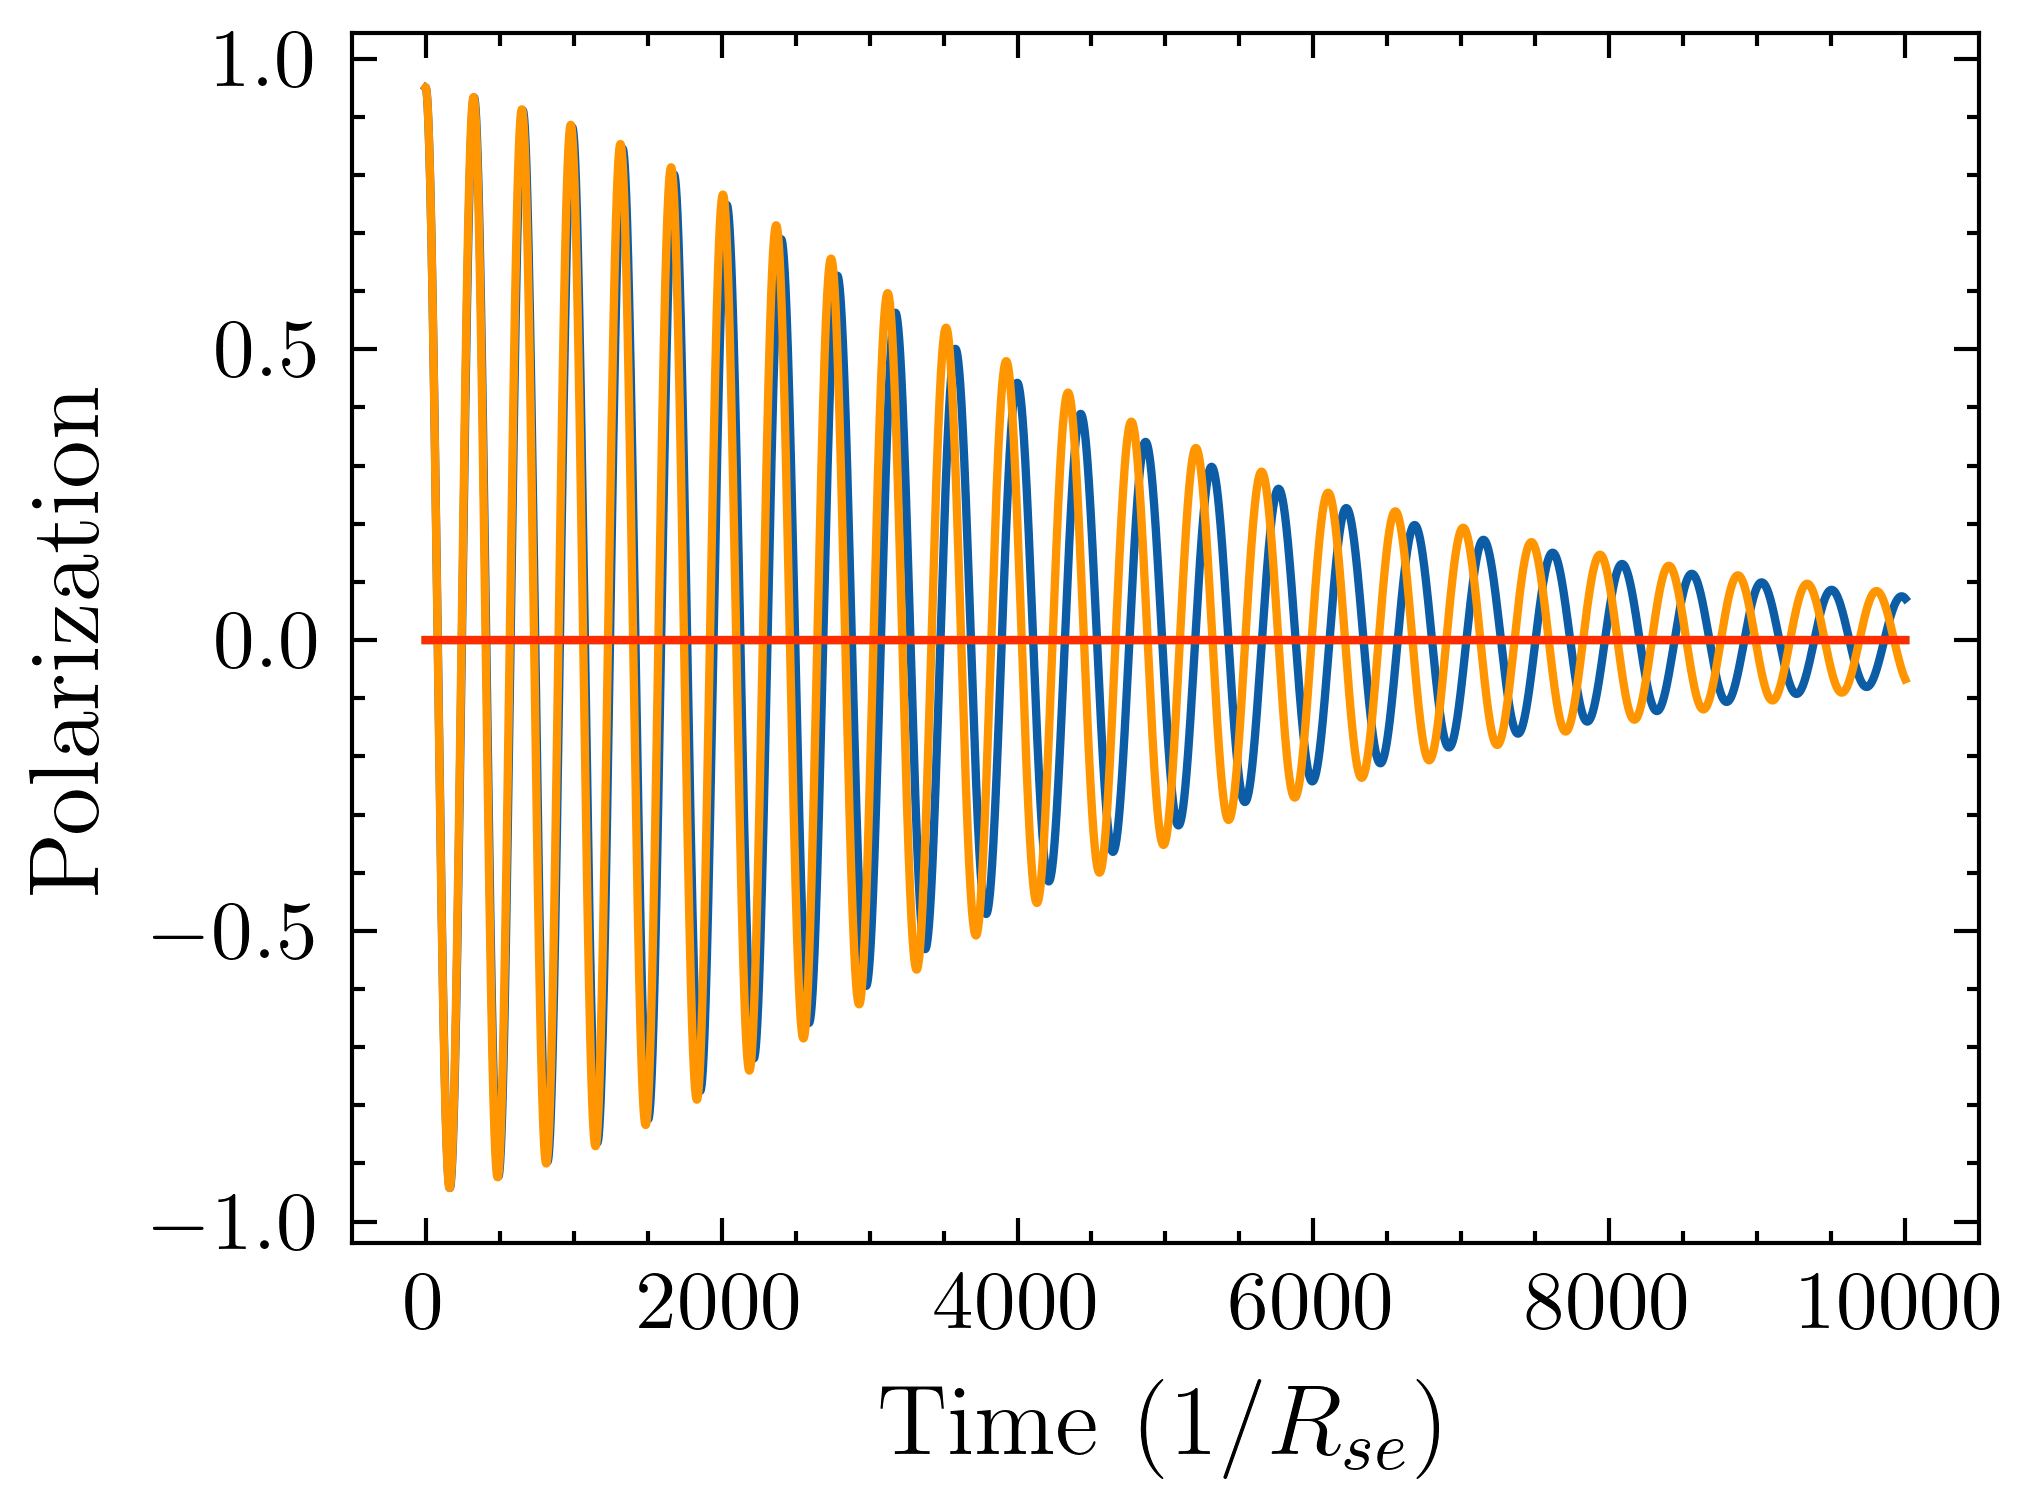
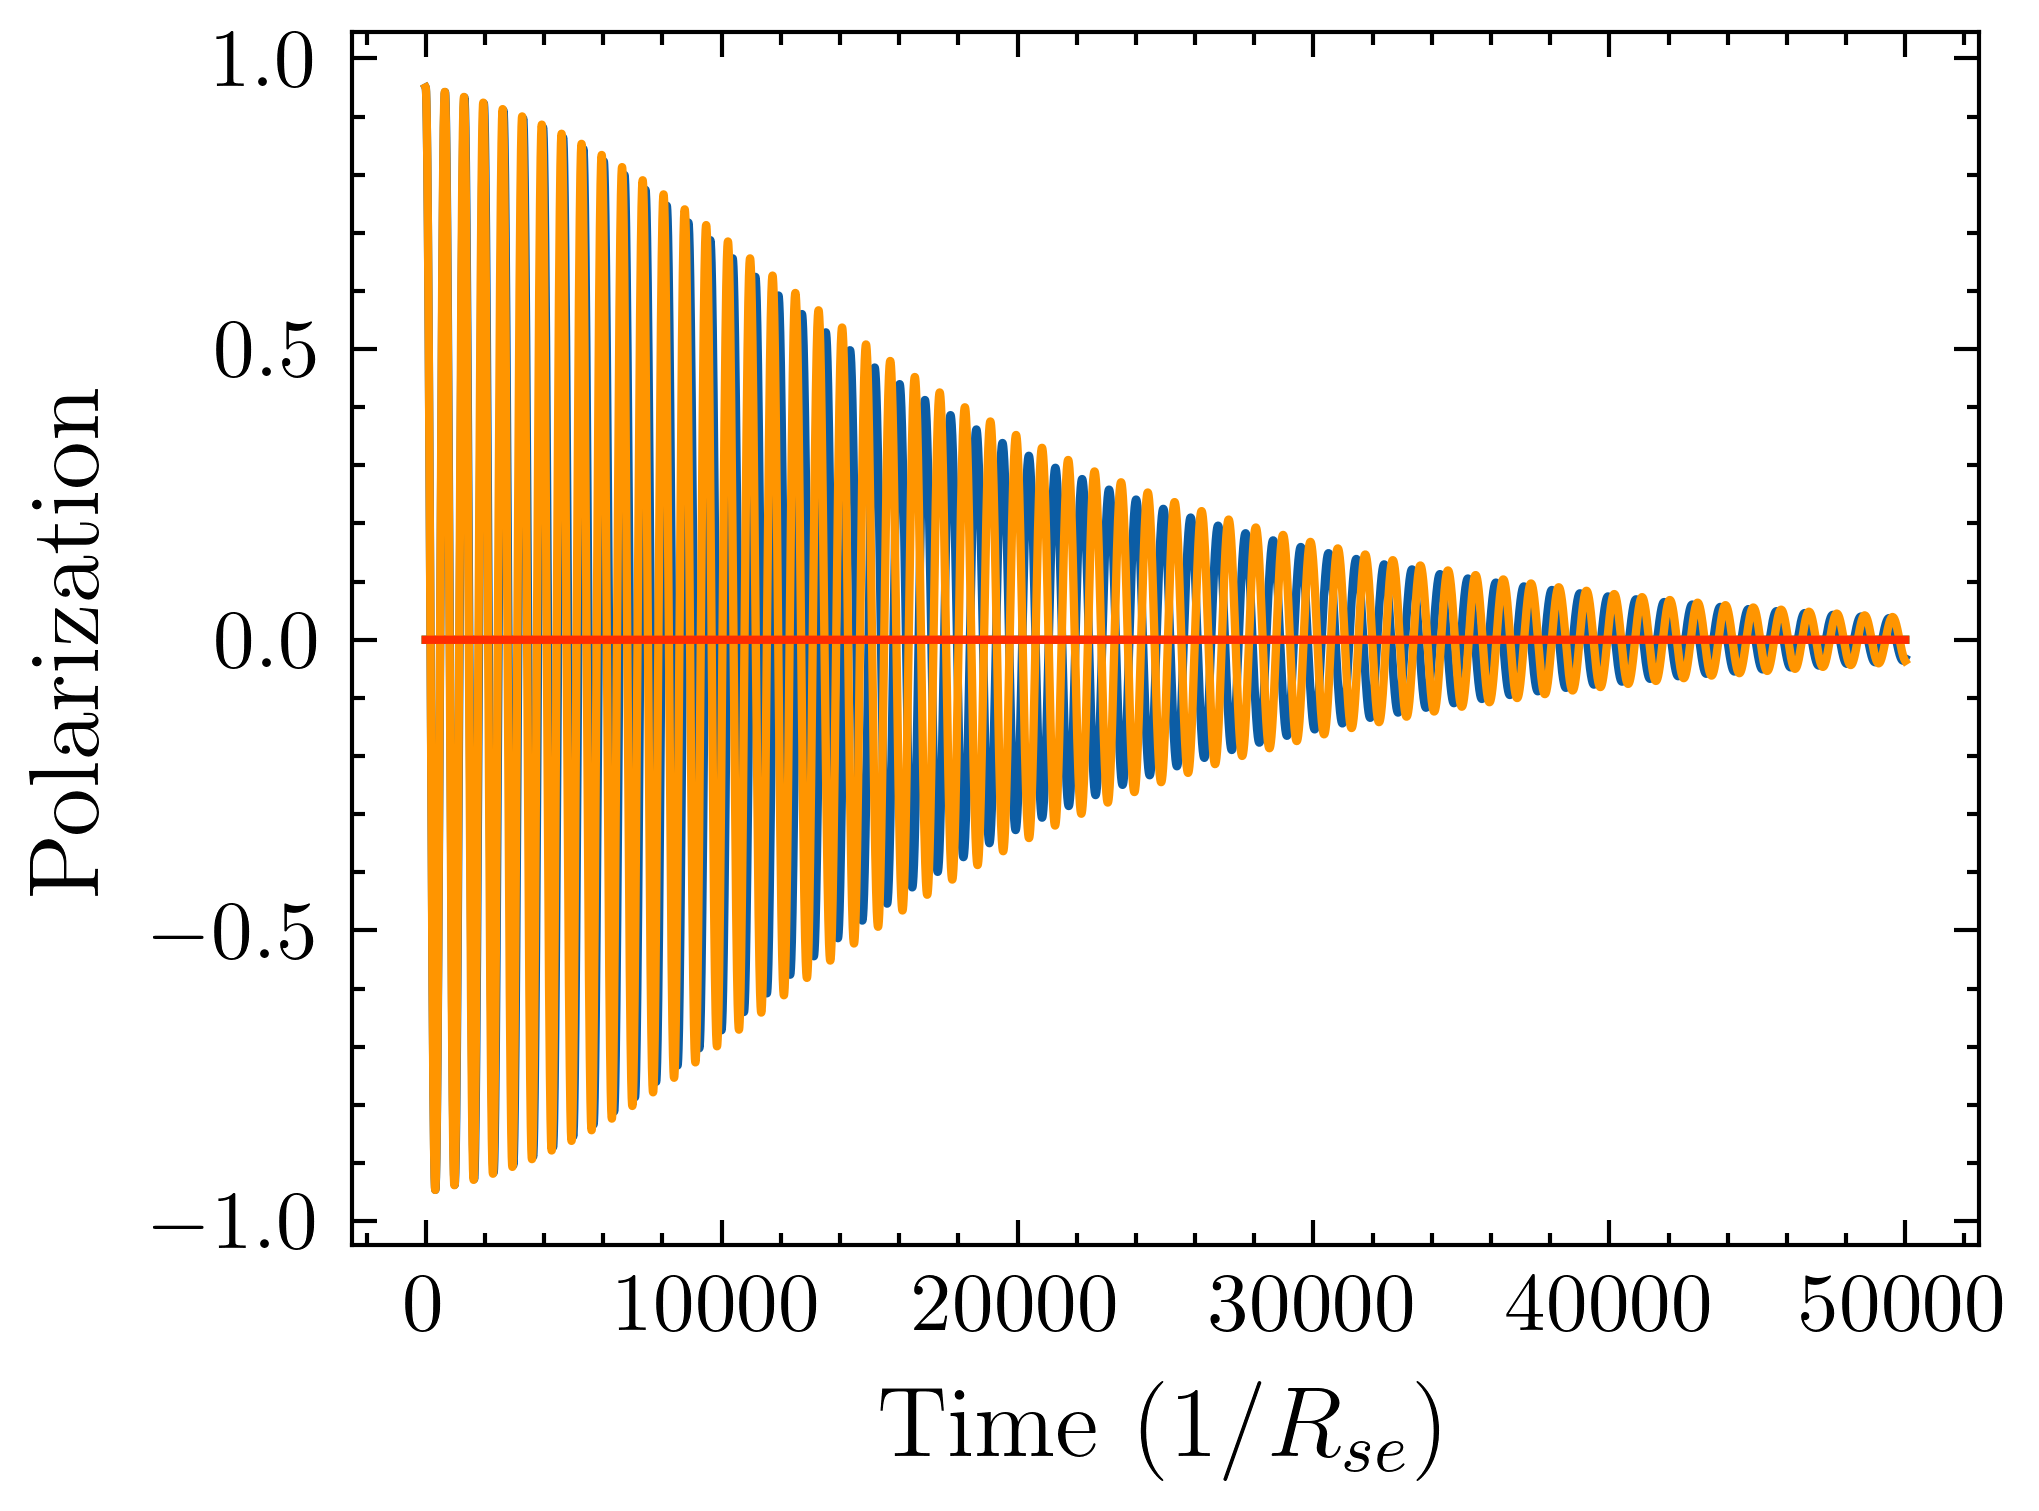
1

diff --git a/test9.py b/test9.py
@@ -1,88 +1,57 @@
-# -*- coding:utf-8 -*-
-"""
-作者：DELL
-日期：2023年12月24日
-"""
-import numpy as np
 import matplotlib.pyplot as plt
 from my_functions.spin_operators_of_2or1_alkali_metal_atoms import spin_operators_of_2or1_alkali_metal_atoms
 from my_functions.alkali_atom_uncoupled_to_coupled import alkali_atom_uncoupled_to_coupled
 from qutip import *
 from sympy.physics.quantum.spin import Rotation
 from sympy import pi
+from my_functions.master_relaxationrate import masterequation
 from scipy.linalg import *
-import scienceplots
-def gammam(P,I, g1, g2,deviation): 
+import numpy as np
+from my_functions.test7_copy import gammam
+bound=1000
+PP,z=gammam(3/2, bound)
+PP,zz=gammam(5/2,bound)
+PP,zzz=gammam(7/2, bound)
 
-    # --------------------------------Properties of the alkali metal atom-----------------------------------#
-    # I = 5 / 2
-    a = round(I + 1 / 2)
-    b = round(I - 1 / 2)
+P=np.arange(0, bound, 1)/1000
 
-    # --------------------------------Generate the angular momentum operators-----------------------------------#
-    U = alkali_atom_uncoupled_to_coupled(round(2 * I))
-    ax, ay, az, bx, by, bz = spin_operators_of_2or1_alkali_metal_atoms(1, I)
-    Sx = np.kron(np.eye(round(2 * I + 1)), np.array(1 / 2 * sigmax()))
-    Sx = U.T.conjugate() @ Sx @ U
-    Sy = np.kron(np.eye(round(2 * I + 1)), np.array(1 / 2 * sigmay()))
-    Sy = U.T.conjugate() @ Sy @ U
-    Sz = np.kron(np.eye(round(2 * I + 1)), np.array(1 / 2 * sigmaz()))
-    Sz = U.T.conjugate() @ Sz @ U
+# xiao's fast relaxation rate 
+h=3/4
+qq0=2*(19)/(3)
+hh=qq0*4*(5/2)*4/(3*36*(qq0-6))
 
-    # --------------------------------Characterize interactions envolved-----------------------------------#
-    Rse = 1
-    Rop = 0
-    Rsd = 0
-    sx=np.sqrt(1)/(2)
-    sz=np.sqrt(1)/(2)
-    # --------------------------------Define the initial state-----------------------------------#
-    theta = 0
-    phi = 0
-    a_theta = spin_Jx(a) * np.sin(theta) * np.cos(phi) + spin_Jy(a) * np.sin(theta) * np.sin(phi) + spin_Jz(a) * np.cos(
-        theta)
-    b_theta = spin_Jx(b) * np.sin(theta) * np.cos(phi) + spin_Jy(b) * np.sin(theta) * np.sin(phi) + spin_Jz(b) * np.cos(
-        theta)
-    qa, va = np.linalg.eig(a_theta)
-    qb, vb = np.linalg.eig(b_theta)
-    v = block_diag(va, vb)
-    q = np.hstack((qa, qb))
-    Rho_ini = np.zeros(2 * (a + b + 1))
+qqq0=2*(11)/(1)
+hhh=qqq0*4*(7/2)*6/(3*64*(qqq0-8))
 
-    # # -----------------spin temperature state-----------------#
+plt.style.use(['science','nature'])
+with plt.style.context(['science','nature']):
+    fig = plt.figure(figsize=(3.2, 4))
+    ax2 = fig.add_subplot(111)
+    p21=ax2.plot(PP, -z)
+    p22=ax2.plot(PP, -zz)
+    p23=ax2.plot(PP, -zzz)
+    ax2.legend(["$ I=3/2$", "$ I=5/2$", "$ I=7/2$"],
+               loc='upper left', prop={'size': 9})
+    ax2.plot([],[])
+    ax2.plot([],[])
+    ax2.plot([],[])
+    ax2.plot([],[])
+    p24=ax2.plot(PP, h*np.ones(bound),linestyle='dotted')
+    p25=ax2.plot(PP, hh*np.ones(bound),linestyle='dotted')
+    p26=ax2.plot(PP, hhh*np.ones(bound),linestyle='dotted')
+    ax2.set_xlim([0,1])
 
+    # plt.ylim([0.65, 1])
+    # plt.ticklabel_format(axis="y", style="sci", scilimits=(0,0))
+    # plt.xlabel('Frequency (Hz)', fontsize=12)
+    # plt.ylabel(' PSD ($N \chi_a^2/$Hz)', fontsize=12)
 
-    # -----------------eigenstates-----------------#
-
-    # Rho_ini = np.outer(np.array([0, 1, 0, 0, 0, 0, 0, 0]), np.array([0, 1, 0, 0, 0, 0, 0, 0]))
-
-    # --------------------------------------Evolution under hyperfine effect, etc.--------------------------------#
-    qq=2*(19+26*P**2+3*P**4)/(3+10*P**2+3*P**4)
-    eta=(qq+6)/(qq-6)
-    dt = 0.001
-    hyperfine = block_diag(np.ones((2 * a + 1, 2 * a + 1)), np.ones((2 * b + 1, 2 * b + 1)))  # 一个原子
-    Fm = np.zeros(10001)
-    Rho_ini = np.zeros(2 * (a + b + 1))
-    beta = np.log((1 + P) / (1 - P))
-    for i in np.arange(0, 2 * (a + b + 1), 1):
-        Rho_ini = Rho_ini + np.exp(beta * q[i]) * v[:, [i]] *v[:, [i]].T.conjugate()
-    Rho_ini = Rho_ini / np.trace(Rho_ini)
-    Rho_ini[[g1,g1]]=Rho_ini[[g1,g1]]-deviation
-    Rho_ini[[g2,g2]]=Rho_ini[[g2,g2]]+deviation
-    Rhot = Rho_ini
-    for n in np.arange(0, 10001, 1):
-        # -----------------Evolution-----------------#
-        x1 = Rhot @ Sx
-        x2 = Rhot @ Sy
-        x3 = Rhot @ Sz
-        AS = 3 / 4 * Rhot - (Sx @ x1 + Sy @ x2 + Sz @ x3)
-        alpha = Rhot - AS
-        mSx = np.trace(x1)
-        mSy = np.trace(x2)
-        mSz = np.trace(x3)
-        mSS = mSx * Sx + mSy * Sy + mSz * Sz
-        Rhot = Rse * (alpha + 4 * alpha @ mSS - Rhot) * dt  + Rhot
-        Rhot = hyperfine * Rhot
-        Fzm =np.sqrt(np.trace((az-eta*bz)@Rhot)**2)
-        Fm[n]=Fzm
-    return Fm
+    ax2.set_xlabel('$P$', fontsize=10)
+    ax2.set_ylabel('$\Gamma_t^- \\approx \Gamma_z^-$ ($R_{\\rm{se}}$) ', fontsize=10)
+    ax2.tick_params(axis='x', labelsize='10' )
+    ax2.tick_params(axis='y', labelsize='10' )
+    # ax2.set_xlim([0,1000])
     
+
+    plt.savefig('Gamma.png', dpi=1000)
+plt.show()

diff --git a/my_functions/test7_copy.py b/my_functions/test7_copy.py
@@ -33,12 +33,13 @@ def gammam(I,bound):
 
     # --------------------------------Characterize interactions envolved-----------------------------------#
     Rse = 1
-    H = ((az+0.5*ax - bz-0.5*bx) ) # 投影定理
+    H = (az - bz) # 投影定理
+    dt = 0.0001
     q, v = np.linalg.eig(H)
     evolving_B = v @ np.diag(np.exp(-1j * q *0.01)) @ np.linalg.inv(v)
     # --------------------------------Define the initial state-----------------------------------#
     theta = np.pi/2
-    phi = np.pi/4
+    phi = 0
     a_theta = spin_Jx(a) * np.sin(theta) * np.cos(phi) + spin_Jy(a) * np.sin(theta) * np.sin(phi) + spin_Jz(a) * np.cos(
         theta)
     b_theta = spin_Jx(b) * np.sin(theta) * np.cos(phi) + spin_Jy(b) * np.sin(theta) * np.sin(phi) + spin_Jz(b) * np.cos(
@@ -56,34 +57,34 @@ def gammam(I,bound):
 
     # --------------------------------------Evolution under hyperfine effect, etc.--------------------------------#
 
-    dt = 0.001
     hyperfine = block_diag(np.ones((2 * a + 1, 2 * a + 1)), np.ones((2 * b + 1, 2 * b + 1)))  # 一个原子
     Fmmt = np.zeros(bound)
-    Fmmz = np.zeros(bound)
+    PP = np.zeros(bound)
 
     for n in np.arange(0,bound, 1):
         # -----------------Evolution-----------------#
         Rho_ini = np.zeros(2 * (a + b + 1))
         P = n/1000
-        if a==2:
-            eta=(5+3*P**2)/(1-P**2)
-        if a==3:
-            qq=2*(19+26*P**2+3*P**4)/(3+10*P**2+3*P**4)
-            eta=(qq+6)/(qq-6)
-        if a==4:
-            qq=2*(11+35*P**2+17*P**4+P**6)/(1+7*P**2+7*P**4+P**6)
-            eta=(qq+8)/(qq-8)
         beta = np.log((1 + P) / (1 - P))
         for i in np.arange(0, 2 * (a + b + 1), 1):
             Rho_ini = Rho_ini + np.exp(beta * q[i]) * v[:, [i]] @ v[:, [i]].T.conjugate()
         Rho_ini = Rho_ini / np.trace(Rho_ini)
         Rho_ini = evolving_B @Rho_ini @ evolving_B.T.conjugate()  # Zeeman effect
         Rhot = Rho_ini
+        P_ini=np.sqrt(np.trace(Rhot@Sx)**2+np.trace(Rhot@Sy)**2)*2
+        PP[n]=P_ini
+        if a==2:
+            eta=(5+3*P_ini**2)/(1-P_ini**2)
+        if a==3:
+            qq=2*(19+26*P_ini**2+3*P_ini**4)/(3+10*P_ini**2+3*P_ini**4)
+            eta=(qq+6)/(qq-6)
+        if a==4:
+            qq=2*(11+35*P_ini**2+17*P_ini**4+P_ini**6)/(1+7*P_ini**2+7*P_ini**4+P_ini**6)
+            eta=(qq+8)/(qq-8)
         Fxm0 = np.trace((ax-eta*bx)@Rhot)
         Fym0 = np.trace((ay-eta*by)@Rhot)
         Fm0=np.sqrt(Fxm0**2+Fym0**2)
-        Fmz0=np.sqrt(np.trace((az-eta*bz)@Rhot)**2)
-        for k in np.arange(0,1,1):
+        for k in np.arange(0,2,1):
             Rhot = hyperfine * Rhot
             x1 = Rhot @ Sx
             x2 = Rhot @ Sy
@@ -95,14 +96,12 @@ def gammam(I,bound):
             mSz = np.trace(x3)
             mSS = mSx * Sx + mSy * Sy + mSz * Sz
             Rhot = Rse * (alpha + 4 * alpha @ mSS - Rhot) * dt  + Rhot
-  
         Fxm = np.trace((ax-eta*bx)@Rhot)
         Fym = np.trace((ay-eta*by)@Rhot)
         Fm=np.sqrt(Fxm**2+Fym**2)
-        Fmz=np.sqrt(np.trace((az-eta*bz)@Rhot)**2)
+        
 
-        Fmmt[n]=(Fm-Fm0)/(1*dt)/Fm0
-        Fmmz[n]=(Fmz-Fmz0)/(1*dt)/Fmz0
+        Fmmt[n]=(Fm-Fm0)/(2*dt)/Fm0
 
-    return Fmmt, Fmmz
+    return PP,Fmmt
     

diff --git a/Master_equation.py b/Master_equation.py
@@ -30,7 +30,7 @@ Sz = U.T.conjugate() @ Sz @ U
 
 # --------------------------------Characterize interactions envolved-----------------------------------#
 Rse = 1
-omega_0 = 0.02
+omega_0 = 0.01
 Rop = 0.
 Rsd = 0.
 sx=np.sqrt(1)/(2)
@@ -62,7 +62,7 @@ Rho_ini = Rho_ini / np.trace(Rho_ini)
 # --------------------------------------Evolution under hyperfine effect, etc.--------------------------------#
 Rhot = Rho_ini
 dt = 0.01
-T = 10000
+T = 50000
 t = np.arange(0, T, dt)
 hyperfine = block_diag(np.ones((2 * a + 1, 2 * a + 1)), np.ones((2 * b + 1, 2 * b + 1)))  # 一个原子
 MSx = np.zeros(round(T / dt))
@@ -115,11 +115,11 @@ for n in np.arange(0, round(T / dt), 1):
     Qnm = 2 * (3 + P ** 4) / ((1 + P ** 2) ** 2)
     Gamma = (4 * (-4 + qnm) * (4 + qnm) * omega_0 ** 2 / 3 / qnm ** 2 /qnm*6) *qnm/6* qnm / Qnm
 
-    #Mr Zhao
-    varpsilon=(5+P**2)/(1+P**2)
-    qnm = 2 * (3 + P ** 2) / (1 + P ** 2)
-    Qnm = 2 * (3 + P ** 4) / ((1 + P ** 2) ** 2)
-    Gamma = (4 * (-4 + qnm) * (4 + qnm) * omega_0 ** 2 / 3 / qnm ** 2 /qnm*6) *varpsilon/5* qnm / Qnm
+    # #Mr Zhao
+    # varpsilon=(5+P**2)/(1+P**2)
+    # qnm = 2 * (3 + P ** 2) / (1 + P ** 2)
+    # Qnm = 2 * (3 + P ** 4) / ((1 + P ** 2) ** 2)
+    # Gamma = (4 * (-4 + qnm) * (4 + qnm) * omega_0 ** 2 / 3 / qnm ** 2 /qnm*6) *varpsilon/5* qnm / Qnm
 
     T2 = (1 - ((qnm - Qnm) / qnm) * Pz ** 2 / P ** 2) * Gamma
     T1 = T2-Gamma/qnm*Qnm
@@ -152,5 +152,5 @@ with plt.style.context(['science']):
 
     plt.xlabel('Time $(1/R_{se})$', fontsize=12)
     plt.ylabel('Polarization', fontsize=12)
-    plt.savefig('imag/Evolution2.png', dpi=600)
+    plt.savefig('imag/Evolution1.png', dpi=600)
 plt.show()

diff --git a/my_functions/master_relaxationrate.py b/my_functions/master_relaxationrate.py
@@ -98,15 +98,15 @@ def masterequation(I):
     if a==2:
         varpsilon=(5+P**2)/(1+P**2)
         q = 2 * (3 + P ** 2) / (1 + P ** 2)
-        Gamma =  (-4 + q) * (4 + q)  / 2 / q ** 3*varpsilon/5 
+        Gamma =  (-4 + q) * (4 + q)  / 2 / q ** 3*q/6 #varpsilon/5 
     if a==3:
         varpsilon=(35+42*P**2+3*P**4)/(3+10*P**2+3*P**4)
         q = 2 * (19 + 26 * P ** 2 + 3 * P ** 4) / (3 + 10 * P ** 2 + 3 * P ** 4)
-        Gamma =(-6 + q) * (6 + q)  / 2 / q ** 3 *varpsilon/(35/3)
+        Gamma =(-6 + q) * (6 + q)  / 2 / q ** 3 *q/(2*19/3)    #varpsilon/(35/3)
     if a==4:
         varpsilon=(21+63*P**2+27*P**4+P**6)/(1+7*P**2+7*P**4+P**6)
         q = 2 * (11 + 35 * P ** 2 + 17 * P ** 4 + P ** 6) / (1 + 7 * P ** 2 + 7 * P ** 4 + P ** 6)
-        Gamma =(-8 + q) * (8 + q)  / 2 / q ** 3 *varpsilon/(21)
+        Gamma =(-8 + q) * (8 + q)  / 2 / q ** 3 * q/(22)      #varpsilon/(21)
     
     return P, Gamma, PP, DD
     

diff --git a/Gamma.py b/Gamma.py
@@ -9,11 +9,10 @@ from scipy.linalg import *
 import numpy as np
 from my_functions.test7_copy import gammam
 bound=1000
-z,Fm1=gammam(3/2, bound)
-zz,Fm2=gammam(5/2,bound)
-zzz,Fm3=gammam(7/2, bound)
+PP,z=gammam(3/2, bound)
+PP,zz=gammam(5/2,bound)
+PP,zzz=gammam(7/2, bound)
 
-PP=np.arange(0, bound, 1)/1000
 P=np.arange(0, bound, 1)/1000
 
 # xiao's fast relaxation rate 
@@ -29,7 +28,7 @@ P=np.arange(0, bound, 1)/1000
 varpsilon1=(5+P**2)/(1+P**2)
 q1 = 2 * (3 + P ** 2) / (1 + P ** 2)
 g1=P**2/(4*(1+P**2))
-h = (q1/8)/varpsilon1* 5
+h = (q1/8)/(varpsilon1)* 5
 
 varpsilon2=(35+42*P**2+3*P**4)/(3+10*P**2+3*P**4)
 q2 = 2 * (19 + 26 * P ** 2 + 3 * P ** 4) / (3 + 10 * P ** 2 + 3 * P ** 4)
